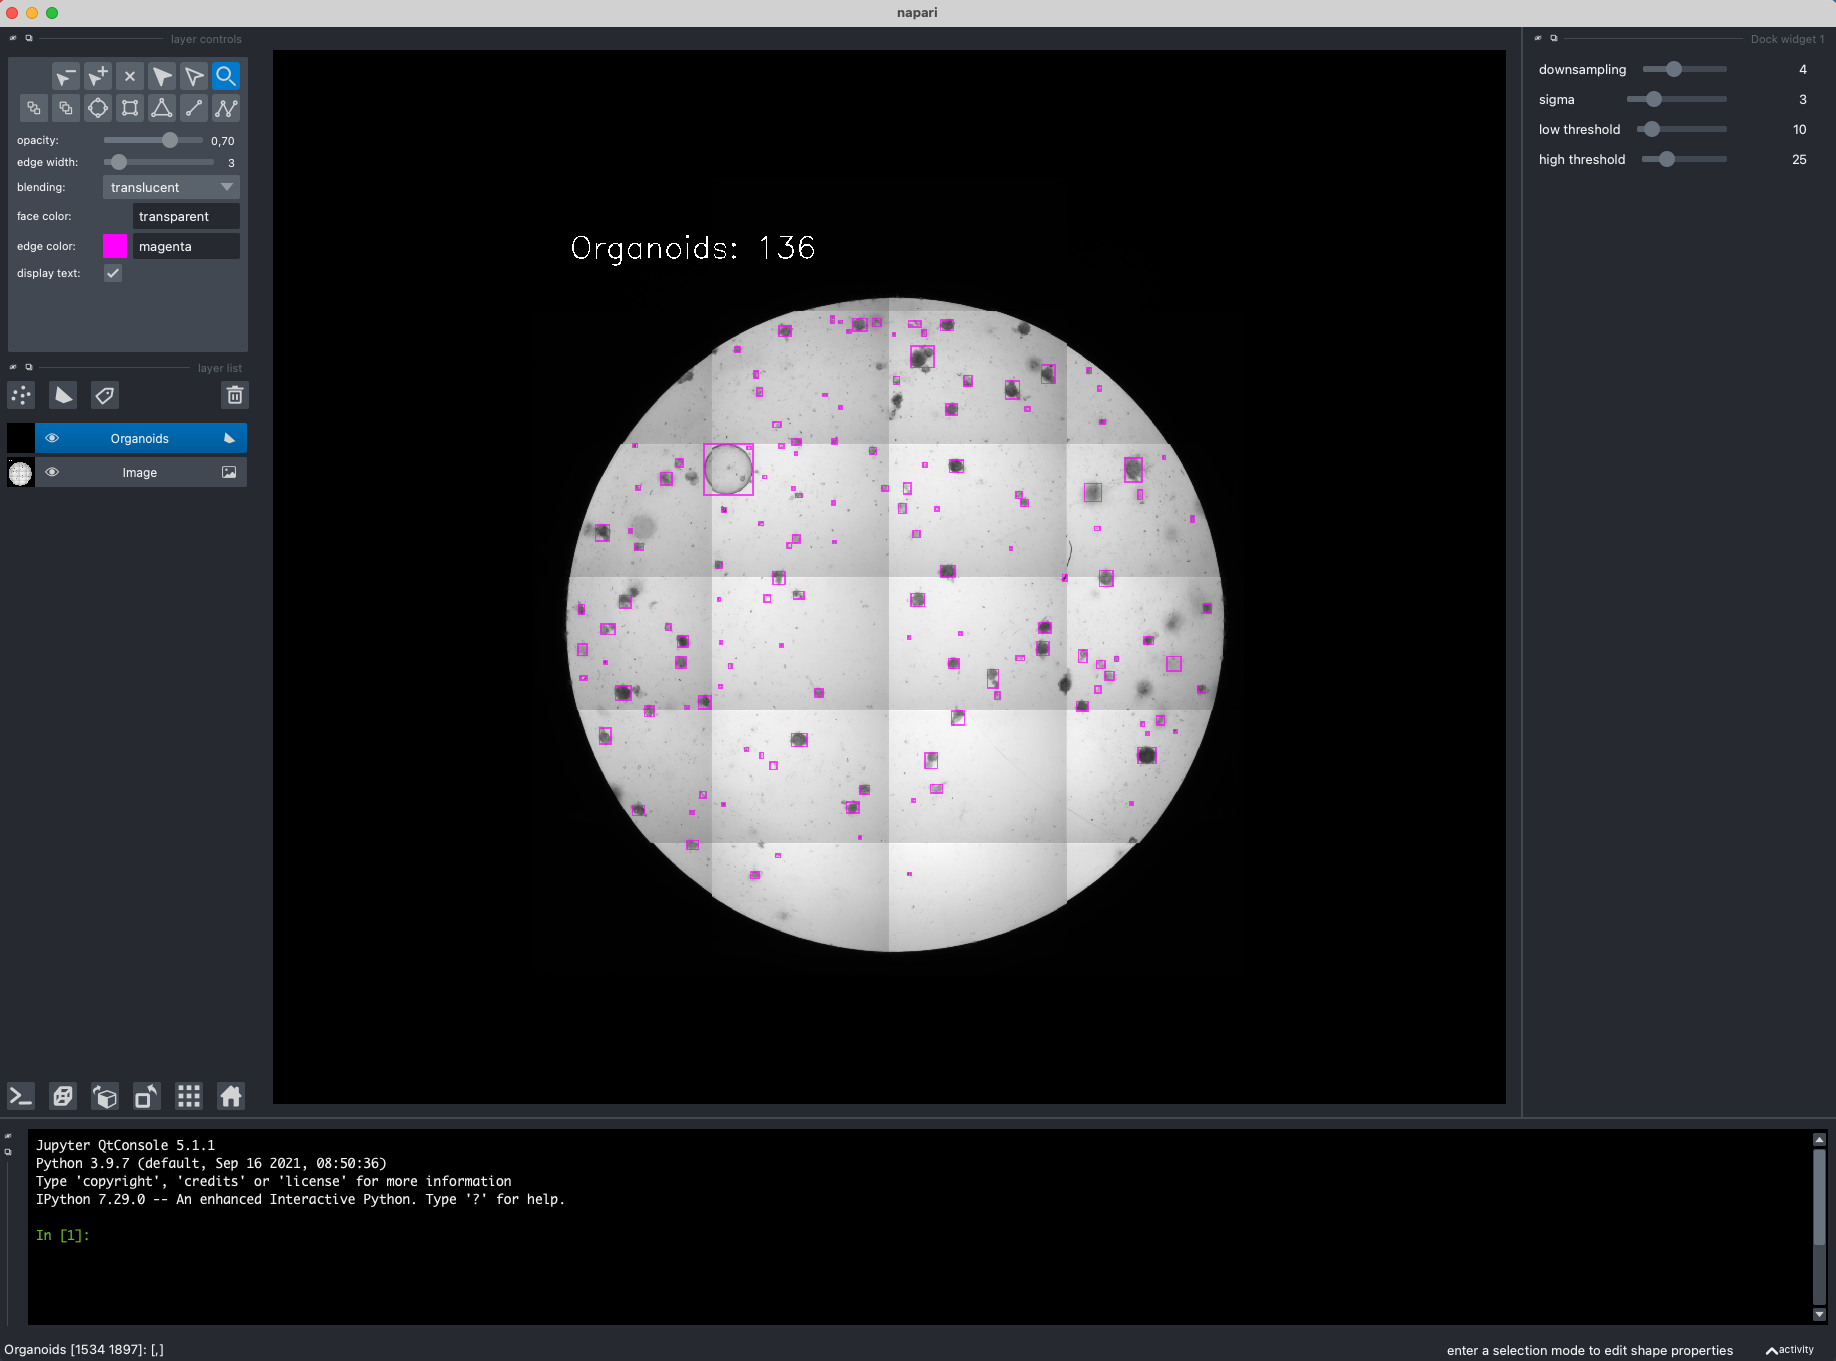
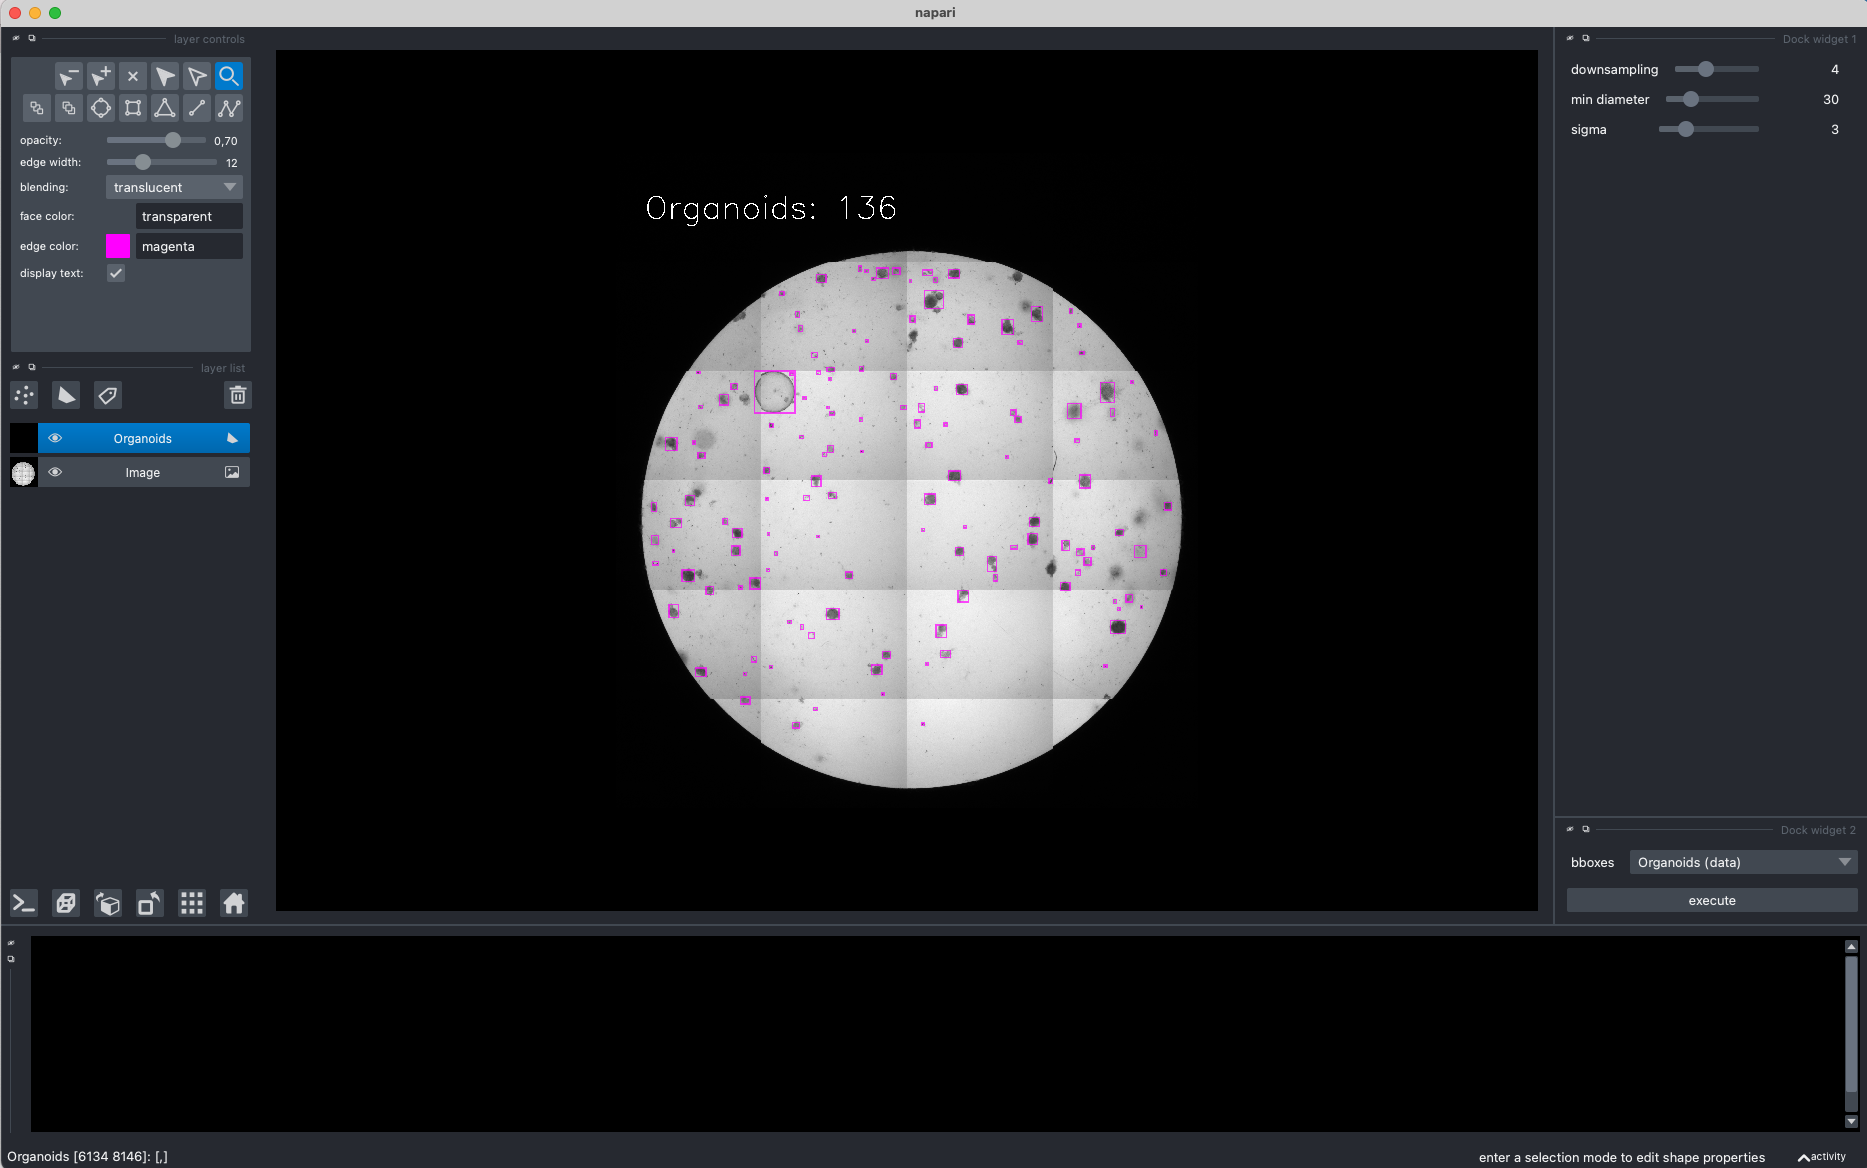
changed visualisation to original resolution always

Changed region(s): [[0.0, 0.0, 1.0, 1.0], [0.3105, 0.2158, 0.683, 0.7089], [0.3415, 0.1541, 0.4346, 0.1849]]

diff --git a/viewer.py b/viewer.py
@@ -6,6 +6,7 @@ import json
 from skimage.io import imsave
 import napari
 from magicgui import magicgui
+from napari.types import ShapesData, ImageData
 from typing import List
 import numpy as np
 import pandas as pd
@@ -38,6 +39,18 @@ if __name__ == '__main__':
         os.makedirs(args.output)
 
     for image_file in file_list:
+        
+        @magicgui(call_button="execute")
+        def update_display_text(bboxes: ShapesData) -> List[napari.types.LayerDataTuple]:
+            img = orga_count.img_orig_norm.copy()
+            img = add_text_to_img(img, len(bboxes)) #, downsampling)
+            img_tuple = (img, {'name': 'Image'}, 'image')
+            bbox_tuple = (bboxes, {'name': 'Organoids', 
+                        'face_color': 'transparent',
+                        'edge_color': 'magenta',
+                        'shape_type': 'rectangle',
+                        'edge_width': 12}, 'shapes')      
+            return [img_tuple, bbox_tuple]
 
         @magicgui(
         auto_call=True,         
@@ -46,7 +59,6 @@ if __name__ == '__main__':
         sigma={"widget_type": "Slider", "min": 1, "max": 10})
         #low_threshold={"widget_type": "Slider", "max": 100},
         #high_threshold={"widget_type": "Slider", "max": 100})
-    
         def update_seg_res(downsampling: int=4, min_diameter: int=30, sigma: int=3) -> List[napari.types.LayerDataTuple]: #, low_threshold: int=10, high_threshold: int=25
             orga_count.update_donwnsampling(downsampling)
             orga_count.update_min_organoid_size(min_diameter)
@@ -55,20 +67,23 @@ if __name__ == '__main__':
             #orga_count.update_high_threshold(high_threshold)
             segmentation = orga_count.apply_morphologies()
             _, _, bboxes = setup_bboxes(segmentation)
+            bboxes *= orga_count.get_current_downsampling() # reset to original resolution
             print('Number of organoids detected with automatic method: ', len(bboxes))
             print('Downsampling: ', downsampling, 'Minimum organoid diameter: ', min_diameter, ', Sigma: ', sigma) #', Low threshold: ', low_threshold, ', High threshold: ', high_threshold,
-            img = add_text_to_img(orga_count.img, len(bboxes), downsampling)
+            img = orga_count.img_orig_norm.copy()
+            img = add_text_to_img(img, len(bboxes)) #, downsampling)
             img_tuple = (img, {'name': 'Image'}, 'image')
             if len(bboxes) > 0:
-                if downsampling<3: edge_width=5
-                else: edge_width=3
+                #if downsampling<3: edge_width=5
+                #else: edge_width=3
+                edge_width=12
                 bbox_tuple = (bboxes, {'name': 'Organoids', 
                                         'face_color': 'transparent',
                                         'edge_color': 'magenta',
                                         'shape_type': 'rectangle',
                                         'edge_width': edge_width}, 'shapes')
             else:
-                bbox_tuple = ([],{'name': 'Organoids', 'face_color': 'transparent', 'edge_color': 'magenta', 'edge_width': 3}, 'shapes')
+                bbox_tuple = ([],{'name': 'Organoids', 'face_color': 'transparent', 'edge_color': 'magenta', 'edge_width': 12}, 'shapes')
             return [img_tuple, bbox_tuple]
  
         raw_filename = os.path.split(image_file)[-1]
@@ -78,26 +93,29 @@ if __name__ == '__main__':
         orga_count = OrgaCount(input_dir, image_file, args.downsample, args.min_diameter, args.sigma, args.low_threshold, args.high_threshold)
         
         viewer = napari.Viewer()
-        img = orga_count.img
+        img = orga_count.img_orig_norm.copy()
         if args.auto_count==True: 
             segmentation = orga_count.apply_morphologies()
-            bbox_properties, text_parameters, bboxes = setup_bboxes(segmentation)#, median_cell_size)
+            _, _, bboxes = setup_bboxes(segmentation)#, median_cell_size)
+            bboxes *= orga_count.get_current_downsampling()
             print('Number of organoids detected with automatic method: ', len(bboxes))
-            img = add_text_to_img(img, len(bboxes), orga_count.downsampling_size)
+            img = add_text_to_img(img, len(bboxes)) #, orga_count.downsampling_size)
             img_layer = viewer.add_image(img, name='Image', colormap='gray')
             shapes_layer = viewer.add_shapes(bboxes, 
                                             name='Organoids',
                                             face_color='transparent',  
                                             edge_color='magenta',
                                             shape_type='rectangle',
-                                            edge_width=3)
-        else:
-            img_layer = viewer.add_image(img, name='Image', colormap='gray')    
-            shapes_layer = viewer.add_shapes(name='Organoids', face_color='transparent', edge_color='magenta', edge_width=3)
-        if args.auto_count==True: 
+                                            edge_width=12)
             viewer.window.add_dock_widget(update_seg_res)
             # update the layer dropdown menu when the layer list changes
             viewer.layers.events.changed.connect(update_seg_res.reset_choices)
+        else:
+            img_layer = viewer.add_image(img, name='Image', colormap='gray')    
+            shapes_layer = viewer.add_shapes(name='Organoids', face_color='transparent', edge_color='magenta', edge_width=12)
+        # update the text displaying the number of organoids
+        viewer.window.add_dock_widget(update_display_text)
+        viewer.layers.events.changed.connect(update_display_text.reset_choices)
 
         @viewer.bind_key('s')
         def store_centroids(viewer):
@@ -112,7 +130,7 @@ if __name__ == '__main__':
                 d2 = abs(bbox[0][1] - bbox[2][1])
                 d1, d2, area = orga_count.compute_real_values(d1,d2)
                 data_csv.append([i, round(d1,3), round(d2,3), round(area,3)])
-                bbox *= orga_count.get_current_downsampling()
+                #bbox *= orga_count.get_current_downsampling()
                 data_json.update({str(i): [list(bboxit) for bboxit in bbox]})
             #write to csv
             df = pd.DataFrame(data_csv, columns =['OrganoidID', 'D1[um]','D2[um]', 'Area [um^2]']) 

diff --git a/OrgaCount.py b/OrgaCount.py
@@ -9,11 +9,11 @@ from skimage.measure import regionprops,label
 from skimage.morphology import remove_small_objects,erosion
 import cv2
 
-def add_text_to_img(img, organoid_number, downsampling):
+def add_text_to_img(img, organoid_number, downsampling=1):
     thickness=2
     if downsampling==1: 
-        fontSize = 6
-        thickness = 4
+        fontSize = 10 #6
+        thickness = 12 #4
     elif downsampling<4: fontSize = 3
     else: fontSize = 2
     img = cv2.putText(img, 
@@ -62,6 +62,8 @@ class OrgaCount():
         self.img_resX_orig = img_czi.physical_pixel_sizes.X # in micrometers
         self.img_resY_orig = img_czi.physical_pixel_sizes.Y
         self.img_original = np.squeeze(img_czi.data)
+        self.img_original = self.img_original.astype(np.float64)
+        self.img_orig_norm = apply_normalization(self.img_original)
         print('Opened image: ', img_path, 'with shape: ', self.img_original.shape)
         self.downsampling_size = downsampling_size
         self.sigma = sigma
@@ -69,9 +71,6 @@ class OrgaCount():
         self.high_threshold = high_threshold
         self.background_intensity = 40
         self.min_radius_um = min_diameter_um//2 #15 # min diameter defined by collaborators as d=30 micrometers. Min area A=pi*r^2
-        self.img = block_reduce(self.img_original, block_size=(self.downsampling_size, self.downsampling_size), func=np.mean)
-        self.update_resolutions()
-        self.img = apply_normalization(self.img)
 
     def update_resolutions(self):
         self.img_resX = self.downsampling_size * self.img_resX_orig
@@ -101,9 +100,9 @@ class OrgaCount():
         min_area_pix = min_area / (self.img_resX * self.img_resY)
         return round(min_area_pix)
     
-    def compute_real_values(self, d1, d2):
-        d1 = d1 * self.img_resX
-        d2 = d2 * self.img_resY
+    def compute_real_values(self, d1, d2): # d1 and d2 are already in original resolution
+        d1 = d1 * self.img_resX_orig
+        d2 = d2 * self.img_resY_orig
         area = math.pi * d1 * d2
         return d1, d2, area
     
@@ -141,18 +140,18 @@ class OrgaCount():
         segmentation = label(filled)
         return segmentation
 
-    def find_median_cell_size(segmentation):
-        sizes=[]
-        for region in regionprops(segmentation):
-            shapes_areas = region.area
-            sizes.append(shapes_areas)
-        if len(sizes)!=0: avg_size = sum(sizes)/len(sizes)
-        else: avg_size = 0
-        return avg_size
-
+'''
+def find_median_cell_size(segmentation):
+    sizes=[]
+    for region in regionprops(segmentation):
+        shapes_areas = region.area
+        sizes.append(shapes_areas)
+    if len(sizes)!=0: avg_size = sum(sizes)/len(sizes)
+    else: avg_size = 0
+    return avg_size
 
 ## confirmed with png image ##
-'''         
+         
 img_jpg = Image.open('example_data/image001.png') #plt.imread('example_data/image001.png')
 #img_jpg  = Image.fromarray(img_jpg)
 img_jpg = img_jpg.convert('L')
